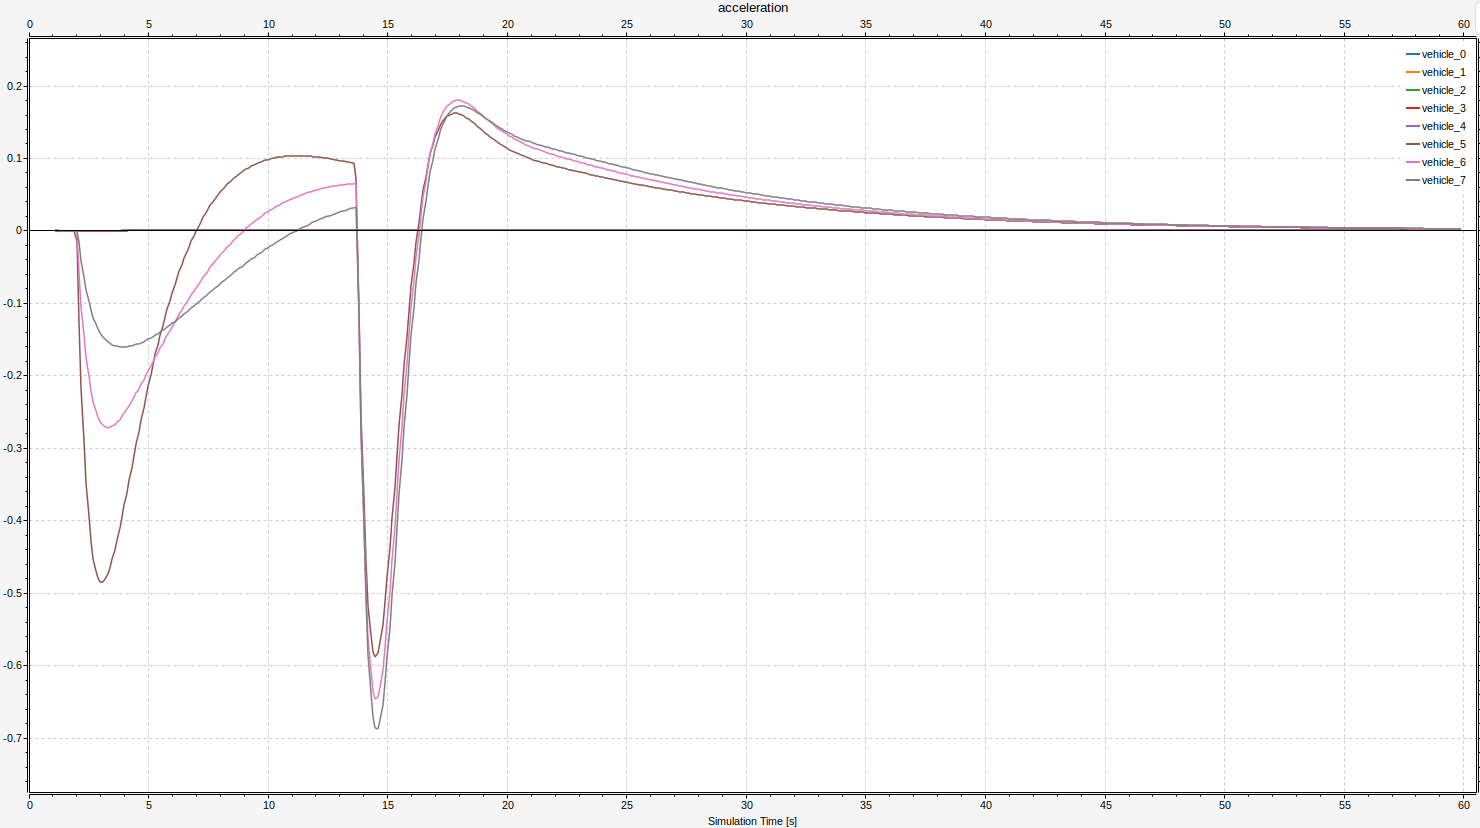
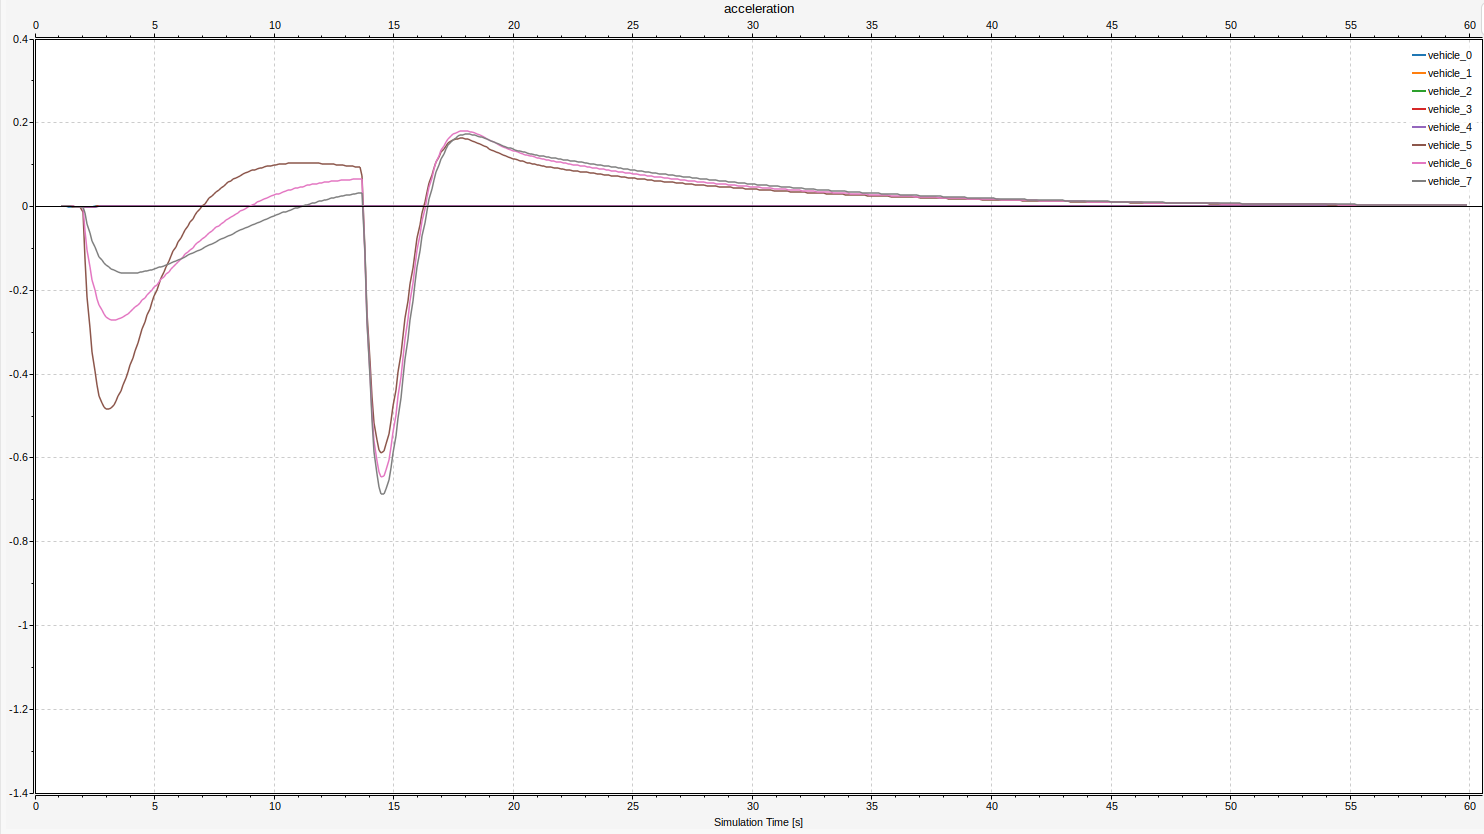
update

Changed region(s): [[0.0, 0.0, 1.0, 0.9964]]

diff --git a/docs/platoonsplitting/analysis.md b/docs/platoonsplitting/analysis.md
@@ -12,12 +12,22 @@ The graph illustrates the time evolution of the headway (relative frontal distan
 In the initial phase (t < 3s ), the system operates in a steady state maintaining a nominal constant spacing of 5 meters between vehicles, confirming the successful coupling and stability of the cooperative CACC dynamics. Upon the triggering of the leavingTime parameter,  the leaving vehicle (the future leader of the sub-platoon)  begins to widen the spatial gap with respect to the preceding vehicle, creating an increasing distance ramp. This phase represents the kinematic separation transient, whose objective is to push the gap up to the leavingDistance threshold in order to trigger the controller state transition.
 Concurrently, the slight fluctuations (ranging between 3 and 5 meters) observable in the vehicles' curves during the first 15 seconds depict the physiological settling phase of the vehicular string following the perturbation. The control loop progressively dampens the tracking error, ensuring the absorption of the transient and restoring full spatial stability for the remainder of the formation.
 
+<div style="display: flex; gap: 10px; margin-bottom: 30px;">
+  <img src="{{ '/assets/images/distance_8.png' | relative_url }}" alt="Grafico 1" style="width: 48%;">
+  <img src="{{ '/assets/images/accel_8.png' | relative_url }}" alt="Grafico 2" style="width: 48%;">
+</div>
 
-![Grafico accelerazione 8]({{'/assets/images/accelerazione_8.png' | relative_url }}) ![Grafico distanza 8]({{'/assets/images/distance_8.png' | relative_url }})
 
-![Grafico accelerazione 16]({{'/assets/images/accel_16.png' | relative_url }}) ![Grafico distanza 16]({{'/assets/images/distance_16.png' | relative_url }})
 
-![Grafico accelerazione 32]({{'/assets/images/accel_32.png' | relative_url }}) ![Grafico distanza 32]({{'/assets/images/dist_32.png' | relative_url }})
+<div style="display: flex; gap: 10px; margin-bottom: 30px">
+  <img src="{{ '/assets/images/distance_16.png' | relative_url }}" alt="Grafico 1" style="width: 48%;">
+  <img src="{{ '/assets/images/accel_16.png' | relative_url }}" alt="Grafico 2" style="width: 48%;">
+</div>
+
+<div style="display: flex; gap: 10px; margin-bottom: 30px">
+  <img src="{{ '/assets/images/dist_32.png' | relative_url }}" alt="Grafico 1" style="width: 48%;">
+  <img src="{{ '/assets/images/accel_32.png' | relative_url }}" alt="Grafico 2" style="width: 48%;">
+</div>
 
 
 The comparison among the three simulated scenarios, obtained by setting the leavingDistance parameter to 8, 16, and 32 meters respectively, highlights a marked kinematic trade-off during the transient phase of the platoon separation.